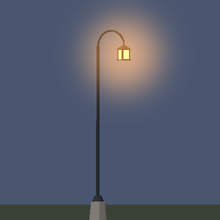
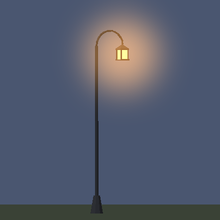
Streetlamps: old_wooden_lantern and antique_gas_lantern styles; remove grey bases (posts buried 0.5 ft); style light color and dz_from_top_ft; steady lights honour style flicker:false
Claude-Session: https://claude.ai/code/session_01UuYwueaY5827X2j7T3KqPz

Changed region(s): [[0.3818, 0.1364, 0.5455, 1.0], [0.5182, 0.1636, 0.6, 0.2727]]

diff --git a/illustrator/panel/index.html b/illustrator/panel/index.html
@@ -414,7 +414,7 @@ td,th{border:1px solid var(--line);padding:1px 4px;text-align:left}
   <label class="chk"><input type="checkbox" data-s="streetlamps.enabled" title="Per-scene switch: off + Generate removes the lamp layer and every lamp light from the pack"> Street lamps enabled for this place</label>
   <h4>Style</h4>
   <div id="slStyleGrid" style="display:grid;grid-template-columns:repeat(auto-fill,minmax(112px,1fr));gap:6px"></div>
-  <label>Style <select data-s="streetlamps.style" id="slStyle"><option value="wrought_iron">Wrought-iron post and lantern</option><option value="wooden_oil">Wooden post, hanging oil lantern</option><option value="stone_pillar">Stone pillar lantern</option><option value="bracket_wall">Wall bracket lamp</option><option value="torch_post">Torch post</option><option value="shepherd_crook">Shepherd crook lamp</option></select></label>
+  <label>Style <select data-s="streetlamps.style" id="slStyle"><option value="wrought_iron">Wrought-iron post and lantern</option><option value="wooden_oil">Wooden post, hanging oil lantern</option><option value="stone_pillar">Stone pillar lantern</option><option value="bracket_wall">Wall bracket lamp</option><option value="torch_post">Torch post</option><option value="shepherd_crook">Shepherd crook lamp</option><option value="old_wooden_lantern">Old wooden post, hanging lantern</option><option value="antique_gas_lantern">Antique gas lantern</option></select></label>
   <div class="note" id="slStyleNote"></div>
   <div class="btns"><button data-act="sl_thumbs" title="Re-render the style thumbnails (streetlamps.py preview)">Refresh thumbnails</button></div>
   <h4>Placement</h4>

diff --git a/illustrator/panel/lib/streetlamps.js b/illustrator/panel/lib/streetlamps.js
@@ -8,7 +8,7 @@
   var py = VB.steps.py;
   var n = function (v, d) { v = Number(v); return isFinite(v) ? v : d; };
 
-  VB.SL_STYLES = ["wrought_iron", "wooden_oil", "stone_pillar", "bracket_wall", "torch_post", "shepherd_crook"];
+  VB.SL_STYLES = ["wrought_iron", "wooden_oil", "stone_pillar", "bracket_wall", "torch_post", "shepherd_crook", "old_wooden_lantern", "antique_gas_lantern"];
   VB.SL_SIDES = { alternating: "Alternating (one lamp per station, switching sides)", left: "Left of travel", right: "Right of travel", both: "Both sides (a pair per station)" };
 
   VB.streetlampsDefaults = function () {

diff --git a/illustrator/generators/streetlamps.py b/illustrator/generators/streetlamps.py
@@ -388,19 +388,22 @@ def lamp_lights(lamps, cfg, styles=None):
         st = styles["styles"][l["style"]]
         sl = st["light"]
         k = lc["kelvin"] or sl["kelvin"]
-        col = lc["color"] or kelvin_to_hex(k)
+        col = lc["color"] or ((sl.get("color") or "") if not lc["kelvin"] else "") or kelvin_to_hex(k)
         a = math.radians(l["rot_deg"])
         scale = (l["height_ft"] / st["height_ft"]) if st["mount"] == "post" and st["height_ft"] else 1.0
-        dz = sl["dz_ft"] * scale if st["mount"] == "post" else l["height_ft"] - (st["height_ft"] - sl["dz_ft"])
+        dz = (l["height_ft"] - sl["dz_from_top_ft"] if "dz_from_top_ft" in sl else sl["dz_ft"] * scale) if st["mount"] == "post" else l["height_ft"] - (st["height_ft"] - sl["dz_ft"])
         dx = sl["dx_ft"]
         out.append({"id": l["id"], "type": "lamp", "road": l["road"], "style": l["style"], "building": l.get("building"),
                     "point": [round(l["x"] + math.cos(a) * dx, 3), round(l["y"] + math.sin(a) * dx, 3)], "z_abs_ft": round(l["z"] + dz, 3),
                     "dim_ft": lc["dim_ft"] or sl["dim_ft"], "bright_ft": lc["bright_ft"] or sl["bright_ft"], "color": col, "kelvin": k,
-                    "intensity": lc["intensity"] or sl["intensity"], "animation": "torch" if (lc["flicker"] and (sl["flicker"] or lc["flicker"])) else None, "shadows": bool(lc["shadows"])})
+                    "intensity": lc["intensity"] or sl["intensity"], "animation": "torch" if (lc["flicker"] and sl["flicker"]) else None, "shadows": bool(lc["shadows"])})
     return out
 
 
 # ------------------------------------------------------------------ meshes (built in feet around the base, +x = arm direction, scaled to metres at the end)
+GLOW_MATS = ("mat_lamp_glow", "mat_lamp_gas_glow", "mat_lamp_flame")
+
+
 class LB:
     """Small solid builder: prisms, boxes, pyramids and beams, faces unshared so the lamp is flat shaded."""
 
@@ -478,8 +481,30 @@ class LB:
         self.prism(x, 0, z0 + s * 0.75 + h * 0.95, z0 + s * 0.88 + h * 0.95, s * 0.09, s * 0.09, 6, mat_frame)
         return z0 + s * 0.88 + h * 0.95
 
-    def footing(self, r=0.55, top=0.15):
-        self.prism(0, 0, -1.0, top, r, r * 0.8, 8, "mat_lamp_stone", math.pi / 8)
+    def lprism(self, c0, c1, z0, z1, r0, r1, n, mat, rot=0.0, cap_top=True, cap_bot=True):
+        """Prism whose axis leans from c0 = (x, y) at z0 to c1 at z1."""
+        ring = lambda c, r, z: [(c[0] + r * math.cos(rot + 2 * math.pi * k / n), c[1] + r * math.sin(rot + 2 * math.pi * k / n), z) for k in range(n)]
+        a, b = ring(c0, r0, z0), ring(c1, r1, z1)
+        for k in range(n):
+            self._poly(mat, [a[k], a[(k + 1) % n], b[(k + 1) % n], b[k]])
+        if cap_top and r1 > 0:
+            self._poly(mat, b[::-1])
+        if cap_bot and r0 > 0:
+            self._poly(mat, a)
+
+    def fluted(self, z0, z1, r0, r1, n, mat, depth=0.16):
+        """Round post with n flutes: a 2n-gon alternating between the full radius and (1 - depth) of it. Open at the bottom, capped on top."""
+        def ring(r, z):
+            return [((r if k % 2 == 0 else r * (1 - depth)) * math.cos(math.pi * k / n), (r if k % 2 == 0 else r * (1 - depth)) * math.sin(math.pi * k / n), z) for k in range(2 * n)]
+        a, b = ring(r0, z0), ring(r1, z1)
+        m = 2 * n
+        for k in range(m):
+            self._poly(mat, [a[k], a[(k + 1) % m], b[(k + 1) % m], b[k]])
+        self._poly(mat, b[::-1])
+
+    def sink(self, r, top, mat):
+        """Buried foot in the post's own material (no separate grey base): the post goes half a foot into the ground."""
+        self.prism(0, 0, -0.5, top, r, r, 8, mat, math.pi / 8, cap_top=False)
 
     def mesh(self):
         return self.b.build()
@@ -487,7 +512,7 @@ class LB:
 
 def _s_wrought_iron(h):
     b = LB()
-    b.footing()
+    b.sink(0.5, 0.15, "mat_lamp_iron")
     b.prism(0, 0, 0.15, 0.95, 0.5, 0.3, 8, "mat_lamp_iron", math.pi / 8)
     b.prism(0, 0, 0.95, 1.2, 0.3, 0.3, 8, "mat_lamp_iron", math.pi / 8)
     top = h - 1.7
@@ -503,9 +528,7 @@ def _s_wrought_iron(h):
 
 def _s_wooden_oil(h):
     b = LB()
-    b.footing(0.6)
-    b.box(0, 0, 0.1, 0.7, 0.7, 0.45, "mat_lamp_stone")
-    b.box(0, 0, 0.55, 0.36, 0.36, h - 0.55, "mat_lamp_wood")
+    b.box(0, 0, -0.5, 0.36, 0.36, h + 0.5, "mat_lamp_wood")
     arm_z = h - 0.45
     b.beam((0, 0, arm_z), (2.0, 0, arm_z), 0.22, "mat_lamp_wood")
     b.beam((0, 0, h - 2.4), (1.6, 0, arm_z - 0.05), 0.18, "mat_lamp_wood")
@@ -516,9 +539,7 @@ def _s_wooden_oil(h):
 
 def _s_stone_pillar(h):
     b = LB()
-    b.footing(0.9)
-    b.box(0, 0, 0.1, 1.9, 1.9, 0.7, "mat_lamp_stone")
-    b.box(0, 0, 0.8, 1.45, 1.45, h - 1.9, "mat_lamp_stone")
+    b.box(0, 0, -0.5, 1.45, 1.45, h - 0.6, "mat_lamp_stone")
     b.box(0, 0, h - 1.1, 1.95, 1.95, 0.28, "mat_lamp_stone")
     b.box(0, 0, h - 0.82, 1.1, 1.1, 0.08, "mat_lamp_iron")
     b.box(0, 0, h - 0.74, 0.8, 0.8, 0.9, "mat_lamp_glow")
@@ -542,8 +563,7 @@ def _s_bracket_wall(h):
 
 def _s_torch_post(h):
     b = LB()
-    b.footing(0.55)
-    b.prism(0, 0, 0.15, h, 0.24, 0.18, 8, "mat_lamp_wood", cap_bot=False)
+    b.prism(0, 0, -0.5, h, 0.24, 0.18, 8, "mat_lamp_wood", cap_bot=False)
     b.prism(0, 0, h - 1.4, h - 1.25, 0.3, 0.3, 8, "mat_lamp_iron")
     b.prism(0, 0, h - 0.55, h, 0.28, 0.55, 8, "mat_lamp_iron", cap_top=False)
     for k in range(6):
@@ -556,8 +576,7 @@ def _s_torch_post(h):
 
 def _s_shepherd_crook(h):
     b = LB()
-    b.footing(0.5)
-    b.prism(0, 0, 0.15, 0.5, 0.35, 0.18, 8, "mat_lamp_iron")
+    b.prism(0, 0, -0.5, 0.5, 0.35, 0.18, 8, "mat_lamp_iron", cap_bot=False)
     b.prism(0, 0, 0.5, h - 0.9, 0.09, 0.07, 8, "mat_lamp_iron", cap_bot=False)
     b.arc((0.9, h - 0.9), 0.9, 180, 20, 0.07, "mat_lamp_iron", 10)
     xe = 0.9 + 0.9 * math.cos(math.radians(20))
@@ -567,8 +586,97 @@ def _s_shepherd_crook(h):
     return b.mesh()
 
 
+# old wooden lantern post: weathered timber, braced cross-arm, iron straps, a hook with a hanging cage lantern (flame core visible)
+OWL_FROM_TOP = 2.55      # flame centre this far below the post top (light.dz_from_top_ft)
+OWL_ARM_X = 2.2          # flame x offset from the post axis, in the local frame (light.dx_ft)
+
+
+def _s_old_wooden_lantern(h):
+    b = LB()
+    W, WD, IR, MO = "mat_lamp_wood_old", "mat_lamp_wood", "mat_lamp_iron", "mat_lamp_moss"
+    lean = (-0.14, 0.12)                                                  # the top of the post is out of true
+    ax = lambda z: (lean[0] * z / h, lean[1] * z / h)                    # axis position at height z
+    rad = lambda z: 0.3 - 0.1 * (z - 0.2) / (h - 0.2)                    # post radius at height z
+    b.lprism(ax(-0.5), ax(h), -0.5, h, 0.3, 0.2, 8, W, math.pi / 8, cap_bot=False)   # post goes straight into the ground
+    b.lprism(ax(0.0), ax(1.9), 0.0, 1.9, rad(0.0) + 0.02, rad(1.9) + 0.02, 8, MO, math.pi / 8, cap_top=False, cap_bot=False)   # moss creeping up the foot
+    for z in (1.5, 4.3, h - 1.8):                                         # iron straps
+        cx, cy = ax(z)
+        r = rad(z) + 0.035
+        b.prism(cx, cy, z - 0.13, z + 0.13, r, r, 8, IR, math.pi / 8, cap_top=False, cap_bot=False)
+    tx, ty = ax(h)
+    b.prism(tx, ty, h - 0.05, h + 0.14, 0.26, 0.19, 8, WD, math.pi / 8)  # weathered cap
+    arm_z = h - 0.65
+    b.beam((tx - 0.9, ty, arm_z + 0.05), (tx + 2.45, ty, arm_z), 0.26, W)     # cross-arm, tail behind the post
+    b.beam((tx + 0.1, ty, h - 3.0), (tx + 1.7, ty, arm_z - 0.05), 0.2, W)     # diagonal brace
+    b.beam((tx - 0.1, ty, h - 2.5), (tx - 0.85, ty, arm_z - 0.1), 0.14, W)    # short back brace
+    b.box(tx + 0.12, ty, h - 3.0, 0.1, 0.34, 0.2, IR)                         # iron plates at the brace joints
+    b.box(tx + 1.7, ty, arm_z - 0.45, 0.1, 0.34, 0.2, IR)
+    hx = tx + OWL_ARM_X
+    top = arm_z - 0.2
+    b.beam((hx, ty, arm_z - 0.05), (hx, ty, top - 0.1), 0.07, IR)             # hook peg through the arm
+    z0 = h - OWL_FROM_TOP - 0.45                                              # lantern base plate; flame centre = z0 + 0.45
+    for k in range(3):                                                        # chain links
+        b.box(hx, ty, top - 0.1 - 0.27 * (k + 1) + 0.1, 0.09, 0.05, 0.27, IR)
+    ring_z = z0 + 1.2
+    b.prism(hx, ty, ring_z, ring_z + 0.07, 0.11, 0.11, 6, IR)                 # hanger ring
+    b.box(hx, ty, z0 + 1.0, 0.8, 0.8, 0.08, IR)                               # top plate
+    b.pyramid(hx, ty, z0 + 1.08, z0 + 1.2, 0.42, 4, IR, math.pi / 4)          # little roof
+    b.box(hx, ty, z0, 0.74, 0.74, 0.1, IR)                                    # base plate
+    b.pyramid(hx, ty, z0 - 0.28, z0, 0.2, 6, IR)                              # drip cone under it
+    for sx in (-1, 1):
+        for sy in (-1, 1):
+            b.box(hx + sx * 0.3, ty + sy * 0.3, z0 + 0.1, 0.07, 0.07, 0.9, IR)
+    for sg in (-1, 1):                                                        # glass panes, open slot top and bottom so the flame shows
+        b.box(hx + sg * 0.29, ty, z0 + 0.2, 0.03, 0.46, 0.66, "mat_lamp_glow")
+        b.box(hx, ty + sg * 0.29, z0 + 0.2, 0.46, 0.03, 0.66, "mat_lamp_glow")
+    b.prism(hx, ty, z0 + 0.1, z0 + 0.3, 0.1, 0.08, 6, IR)                     # oil pot
+    b.prism(hx, ty, z0 + 0.3, z0 + 0.6, 0.075, 0.03, 6, "mat_lamp_flame")      # the flame, centre at z0 + 0.45
+    return b.mesh()
+
+
+def _gas_geometry(h):
+    top = h - 1.9                       # shaft top / lantern seat
+    gz = top + 0.35                     # bottom of the glass
+    return top, gz, 1.55                # glass height 1.55
+
+
+def _s_antique_gas_lantern(h):
+    b = LB()
+    IR, GL = "mat_lamp_iron_cast", "mat_lamp_gas_glow"
+    top, gz, gh = _gas_geometry(h)
+    b.prism(0, 0, -0.5, 0.0, 0.66, 0.66, 8, IR, math.pi / 8, cap_top=False)           # cast-iron foot, buried half a foot
+    b.prism(0, 0, 0.0, 1.0, 0.66, 0.5, 8, IR, math.pi / 8, cap_top=False, cap_bot=False)   # flared foot
+    b.prism(0, 0, 1.0, 1.2, 0.54, 0.54, 8, IR, math.pi / 8)
+    b.prism(0, 0, 1.2, 2.5, 0.46, 0.32, 8, IR, math.pi / 8, cap_bot=False)           # tapering pedestal
+    b.prism(0, 0, 2.5, 2.7, 0.4, 0.4, 8, IR, math.pi / 8)
+    b.prism(0, 0, 2.7, 3.0, 0.3, 0.3, 8, IR, math.pi / 8)                             # base collar ring
+    b.fluted(3.0, top - 0.5, 0.25, 0.19, 8, IR)                                        # fluted column
+    b.prism(0, 0, top - 0.5, top - 0.3, 0.27, 0.27, 8, IR, math.pi / 8)                # collar rings under the lantern
+    b.prism(0, 0, top - 0.3, top - 0.18, 0.2, 0.2, 8, IR, math.pi / 8)
+    lz = top - 1.5
+    b.beam((0, -0.75, lz), (0, 0.75, lz), 0.06, IR)                                    # ladder bar
+    for sg in (-1, 1):
+        b.prism(0, sg * 0.78, lz - 0.07, lz + 0.07, 0.09, 0.09, 6, IR)
+    for sg in (-1, 1):                                                                 # scrolled brackets either side of the shaft
+        b.arc((sg * 0.55, top - 0.75), 0.55, 90 if sg < 0 else 90, 180 if sg < 0 else 0, 0.06, IR, 6)
+    b.prism(0, 0, top - 0.18, top, 0.34, 0.5, 8, IR, math.pi / 8)                      # seat flare
+    b.box(0, 0, top, 1.0, 1.0, 0.1, IR, 45.0)                                          # lantern base plate
+    b.pyramid(0, 0, top + 0.1, gz, 0.4, 4, IR, math.pi / 4, top_r=0.34)                # burner housing
+    b.prism(0, 0, gz, gz + gh, 0.36, 0.6, 4, GL, math.pi / 4, cap_top=False, cap_bot=False)  # tapered glass, wider at the top
+    for k in range(4):                                                                 # frame posts along the corners
+        a = math.pi / 4 + k * math.pi / 2
+        b.beam((0.36 * math.cos(a) * 1.0, 0.36 * math.sin(a), gz), (0.6 * math.cos(a), 0.6 * math.sin(a), gz + gh), 0.07, IR)
+    b.prism(0, 0, gz + 0.45, gz + 0.9, 0.09, 0.16, 6, "mat_lamp_flame")                # gas mantle, centre at gz + 0.675
+    b.box(0, 0, gz + gh, 1.55, 1.55, 0.09, IR, 45.0)                                   # top rim
+    b.pyramid(0, 0, gz + gh + 0.09, gz + gh + 0.7, 0.95, 4, IR, math.pi / 4, top_r=0.2)  # cap
+    b.prism(0, 0, gz + gh + 0.7, gz + gh + 0.84, 0.24, 0.24, 6, IR)                    # vent collar
+    b.pyramid(0, 0, gz + gh + 0.84, gz + gh + 1.1, 0.14, 6, IR)                        # finial
+    return b.mesh()
+
+
 BUILDERS = {"wrought_iron": _s_wrought_iron, "wooden_oil": _s_wooden_oil, "stone_pillar": _s_stone_pillar, "bracket_wall": _s_bracket_wall,
-            "torch_post": _s_torch_post, "shepherd_crook": _s_shepherd_crook}
+            "torch_post": _s_torch_post, "shepherd_crook": _s_shepherd_crook,
+            "old_wooden_lantern": _s_old_wooden_lantern, "antique_gas_lantern": _s_antique_gas_lantern}
 _CACHE = {}
 
 
@@ -749,8 +857,8 @@ def render_thumb(style, path, height_ft=None, size=220, styles=None):
             n = n / ln
             wn = np.array([n[0] * c - n[1] * s, n[0] * s + n[1] * c, n[2]])
             lit = 0.55 + 0.45 * abs(float(np.dot(wn, np.array([-0.4, -0.6, 0.7]) / 0.9)))
-            tris.append((float(Y[f].mean()), f, mid, 1.0 if mid == "mat_lamp_glow" else lit))
-            if mid == "mat_lamp_glow":
+            tris.append((float(Y[f].mean()), f, mid, 1.0 if mid in GLOW_MATS else lit))
+            if mid in GLOW_MATS:
                 gx += float(X[f].mean())
                 gz += float(Z[f].mean())
                 gn += 1
@@ -849,7 +957,7 @@ def build_parser():
             s.add_argument("--pack", help="pack folder (default world/<place>/export)")
             s.add_argument("--config", help="JSON file with the settings (the panel writes one); the options below override it")
             s.add_argument("--enabled", choices=["on", "off"], help="scene toggle: off removes the lamp layer and lamp lights from the placements. Omitted: apply keeps the setting stored by the last apply (on the first run: on), plan is always a dry run as if on")
-            s.add_argument("--style", help="wrought_iron | wooden_oil | stone_pillar | bracket_wall | torch_post | shepherd_crook")
+            s.add_argument("--style", help="wrought_iron | wooden_oil | stone_pillar | bracket_wall | torch_post | shepherd_crook | old_wooden_lantern | antique_gas_lantern")
             s.add_argument("--spacing", type=float, help="distance between lamps along the road, ft")
             s.add_argument("--side", choices=list(SIDES), help="left | right | alternating | both")
             s.add_argument("--offset", type=float, help="distance from the road edge, ft")

diff --git a/illustrator/generators/test_streetlamps.py b/illustrator/generators/test_streetlamps.py
@@ -224,10 +224,54 @@ class Meshes(unittest.TestCase):
         self.assertEqual(set(st["styles"]), set(sl.BUILDERS))
         for k, v in st["styles"].items():
             m = sl.style_mesh(k, v["height_ft"])
-            self.assertTrue(40 < m.tri_count < 600, (k, m.tri_count))
+            self.assertTrue(40 < m.tri_count < 700, (k, m.tri_count))
             if v["mount"] == "post":
                 self.assertGreater(m.V[:, 2].max(), v["height_ft"] * 0.9)
                 self.assertLess(m.V[:, 2].min(), 0.01)
+
+
+class NewStyles(unittest.TestCase):
+    def _mat_centroid(self, m, mat):
+        import numpy as np
+        idx = np.unique(np.array(m.subs[mat]).ravel())
+        return m.V[idx].mean(axis=0)
+
+    def test_new_styles_budget_and_flame_height(self):
+        st = sl.load_styles()["styles"]
+        for k, hdef in (("old_wooden_lantern", 10), ("antique_gas_lantern", 13)):
+            for h in (hdef, hdef + 3):
+                m = sl.style_mesh(k, h)
+                self.assertTrue(150 < m.tri_count < 700, (k, m.tri_count))
+                self.assertGreater(m.V[:, 2].max(), h * 0.9)
+                self.assertIn("mat_lamp_flame", m.subs)
+                fc = self._mat_centroid(m, "mat_lamp_flame")
+                r = sl.plan_lamps([MAIN], [], cfg(spacing_ft=50, style=k, height_ft=h))
+                lamp = r["lamps"][0]
+                lt = sl.lamp_lights([lamp], r["config"])[0]
+                self.assertAlmostEqual(lt["z_abs_ft"] - lamp["z"], fc[2], delta=0.1, msg=(k, h))     # light sits at the flame
+                self.assertAlmostEqual(st[k]["light"]["dx_ft"], fc[0], delta=0.1, msg=k)
+            self.assertLess(sl.style_mesh(k, hdef).V[:, 2].min(), -0.3)                              # buried, no grey base
+            self.assertNotIn("mat_lamp_stone", sl.style_mesh(k, hdef).subs)
+
+    def test_no_grey_bases(self):
+        st = sl.load_styles()["styles"]
+        for k, v in st.items():
+            if v["mount"] != "post" or k == "stone_pillar":
+                continue
+            self.assertNotIn("mat_lamp_stone", sl.style_mesh(k, v["height_ft"]).subs, k)
+            self.assertLess(sl.style_mesh(k, v["height_ft"]).V[:, 2].min(), -0.3, k)
+
+    def test_gas_is_steady_and_taller_wood_flickers(self):
+        st = sl.load_styles()["styles"]
+        self.assertGreater(st["antique_gas_lantern"]["height_ft"], st["old_wooden_lantern"]["height_ft"])
+        for k, anim in (("antique_gas_lantern", None), ("old_wooden_lantern", "torch")):
+            r = sl.plan_lamps([MAIN], [], cfg(spacing_ft=50, style=k))
+            for l in sl.lamp_lights(r["lamps"], r["config"]):
+                self.assertEqual(l["animation"], anim, k)
+        r = sl.plan_lamps([MAIN], [], cfg(spacing_ft=50, style="antique_gas_lantern"))
+        self.assertEqual(sl.lamp_lights(r["lamps"], r["config"])[0]["color"], "#ffe2a8")
+        for k in ("old_wooden_lantern", "antique_gas_lantern"):
+            self.assertTrue(os.path.exists(os.path.join(HERE, "..", "presets", "streetlamps", "thumbs", k + ".png")))
 
 
 @unittest.skipUnless(os.path.exists(os.path.join(PACK, "placements.json")), "no Dyers pack")

diff --git a/illustrator/PLUGIN_GUIDE.md b/illustrator/PLUGIN_GUIDE.md
@@ -621,8 +621,9 @@ Rule: anything the command line can do has a labelled panel control. The Tools t
 
 ### 2.21 Streetlamps tab (street lamps along the roads)
 Toggleable lamp posts on the exported roads: `generators/streetlamps.py` (plan / apply / preview / styles), `generators/streetlamps_scene.py` (`foundry_push.py set-streetlamps`), styles in `presets/streetlamps/styles.json` (thumbnails in `presets/streetlamps/thumbs/`), panel `lib/streetlamps.js` + `streetlamps_ui.js`, tests `generators/test_streetlamps.py` and `panel/test/test_streetlamps_jobs.js`.
-* **Styles (6):** wrought-iron post and lantern, wooden post with hanging oil lantern, stone pillar lantern, wall bracket lamp (fixed to the nearest building wall within 14 ft, skipped where there is none), torch post, shepherd's crook lamp. 146 to 416 triangles each, one merged tile for the whole town.
-* **Placement:** stations every Spacing ft along each road centreline (centred, 6 ft clear at the ends), Side left / right / alternating / both, Offset ft outside the road edge, Height (0 = style default), classes Main (road, street) / Side (lane, alley) / Dirt (dirt, mud, packed earth, sand surfaces; gravel counts by class). Skipped: near junctions, bridges, exterior doors, inside building footprints; a road that fits fewer than Minimum lamps gets none unless "Centre a lamp on short roads" (`--centre-short on`, config `centre_short`) is ticked, which gives it one lamp in the middle; Jitter shifts lamps along the road (deterministic per Seed). Lamps stand on the graded road height (the centreline z the road ribbon is built from) with a footing buried 1 ft.
+* **Styles (8):** `wrought_iron` wrought-iron post and lantern (11 ft), `wooden_oil` wooden post with hanging oil lantern (9 ft), `stone_pillar` stone pillar lantern (7 ft), `bracket_wall` wall bracket lamp (fixed to the nearest building wall within 14 ft, skipped where there is none), `torch_post` torch post, `shepherd_crook` shepherd's crook lamp, `old_wooden_lantern` (10 ft: weathered leaning timber post, braced cross-arm, iron straps, moss at the foot, cage lantern with a visible flame on a chain hook, warm 1900 K flicker, dim 34 / bright 11 ft) and `antique_gas_lantern` (13 ft: fluted cast-iron column with a flared dark iron foot, ladder bar, scrolled brackets, tapered four-pane gas lantern with cap and finial, steady light `#ffe2a8`, dim 44 / bright 16 ft, no flicker). 106 to 630 triangles each, one merged tile for the whole town. No style has a grey base block: posts go straight into the ground (buried 0.5 ft, in the post's own material); only `stone_pillar` is stone, being the pillar itself.
+* **Style light keys** (`styles.json`): `dz_ft` flame height at the default height, `dz_from_top_ft` (optional: flame height measured down from the post top, so the light stays at the flame when Height is changed), `dx_ft` flame offset toward the road, optional `color` (hex, used unless a Colour temperature override is set), `flicker` (a style with `flicker: false` is steady; the panel flicker option only applies to styles that flicker).
+* **Placement:** stations every Spacing ft along each road centreline (centred, 6 ft clear at the ends), Side left / right / alternating / both, Offset ft outside the road edge, Height (0 = style default), classes Main (road, street) / Side (lane, alley) / Dirt (dirt, mud, packed earth, sand surfaces; gravel counts by class). Skipped: near junctions, bridges, exterior doors, inside building footprints; a road that fits fewer than Minimum lamps gets none unless "Centre a lamp on short roads" (`--centre-short on`, config `centre_short`) is ticked, which gives it one lamp in the middle; Jitter shifts lamps along the road (deterministic per Seed). Lamps stand on the graded road height (the centreline z the road ribbon is built from) with the post buried 0.5 ft.
 * **Road states:** plan / apply list every road with a state (`roads` in the JSON); a road that is on but ends with no lamp reports `on (too short: 0 lamps)` or `on (0 lamps: all N position(s) skipped)` (junction / door / bridge / building skips) and the panel readout lists those roads. `apply` without `--enabled` (and without `enabled` in `--config`) keeps the switch stored by the last apply, `on` on the first run, so it never silently removes lamps; `plan` is a dry run as if on. The panel always sends `enabled` in its config.
 * **Per road:** Roads tab, fields "Street lamps on this road" (yes forces lamps even when the class is off, no = none), style, spacing; written to the street `edit.lamps` {on, style, spacing_ft} (`object_edit.py set-road --set lamps.on=false`).
 * **Lights:** one AmbientLight per lamp, kind `lamp` (budget priority 80), colour from Colour temperature (K) or a hex override, dim / bright radius, intensity, Flame flicker (Foundry animation torch; street lamps flicker by default, whereas interior hearth / window lights stay non-animated unless `push-lights --light-animation` is given), Light shadows off by default (a shadow-casting light costs 6 extra scene passes). 0 in a light box = the style value.
